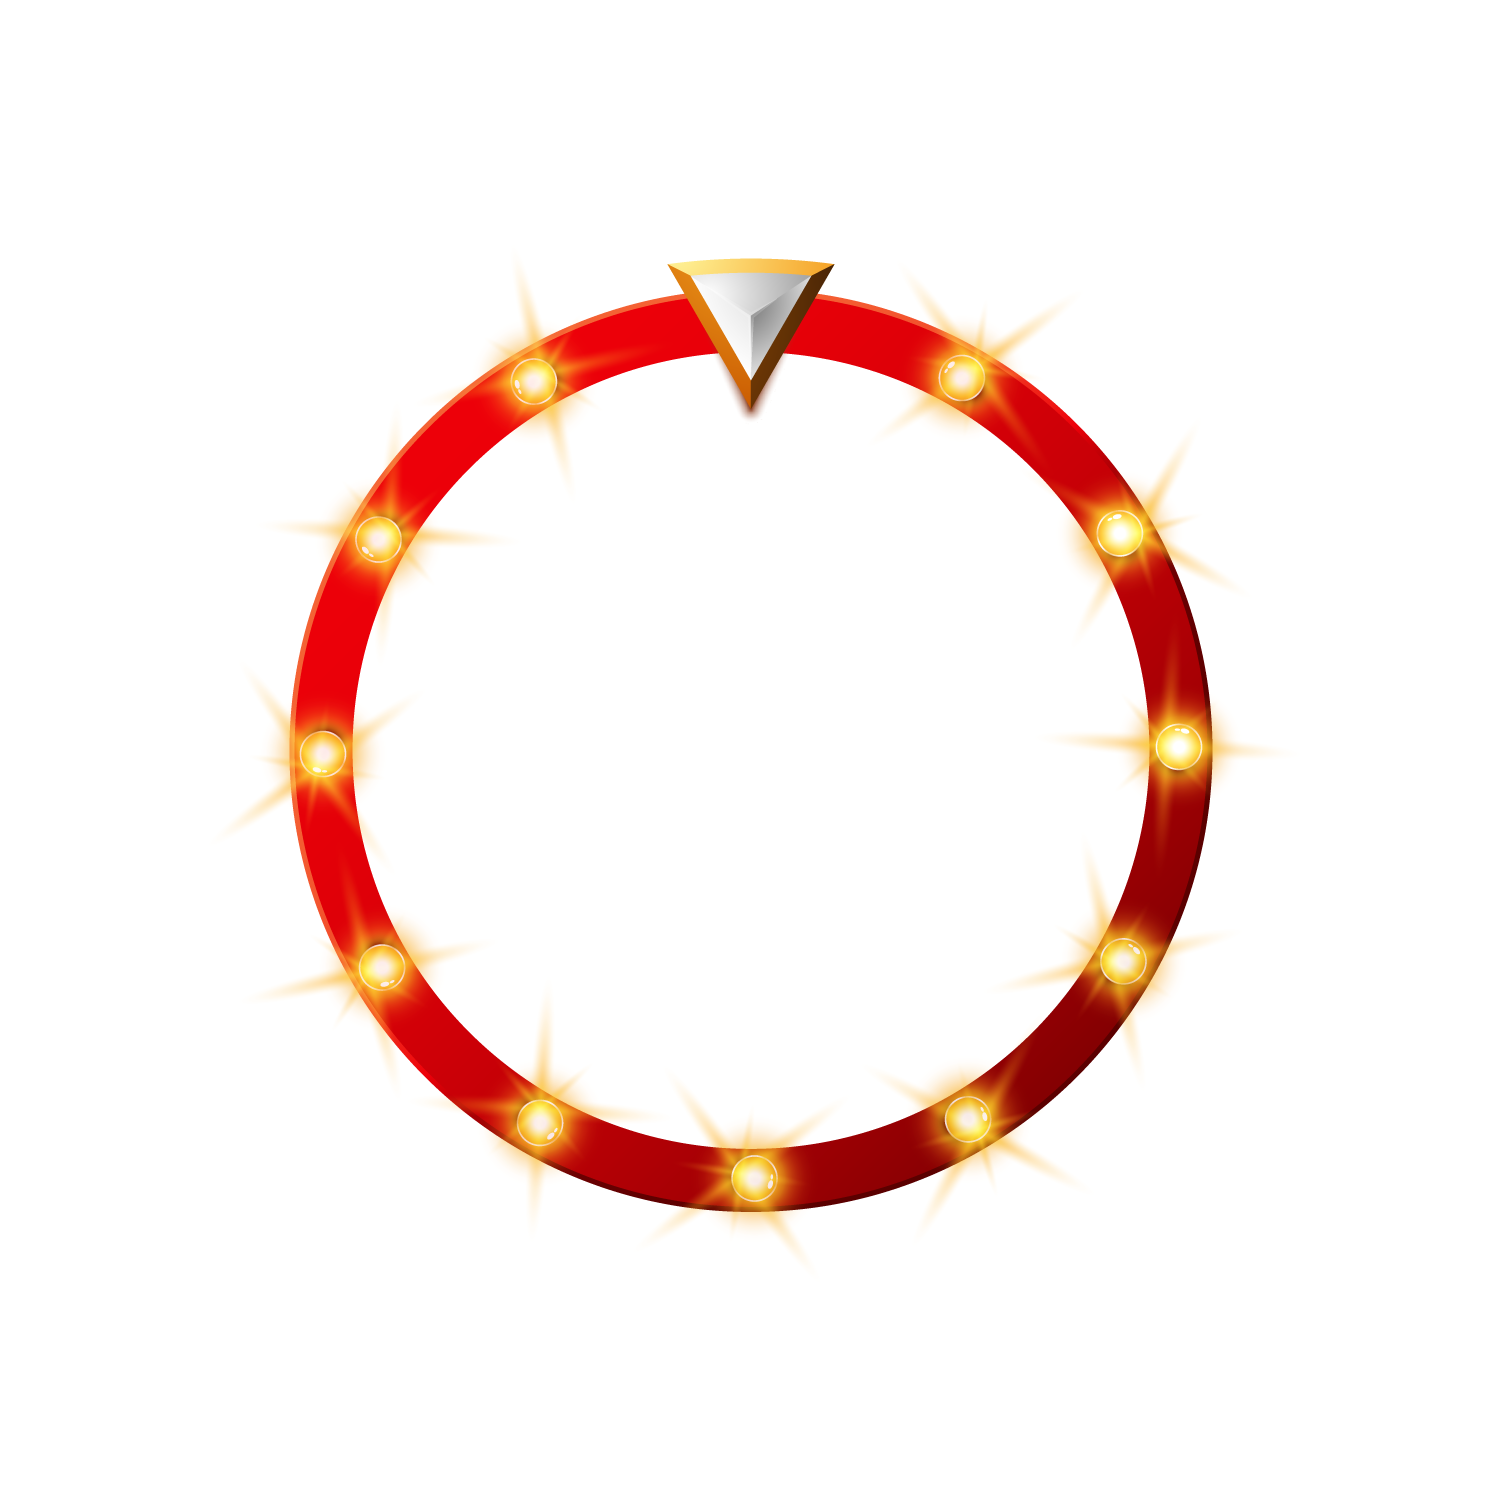
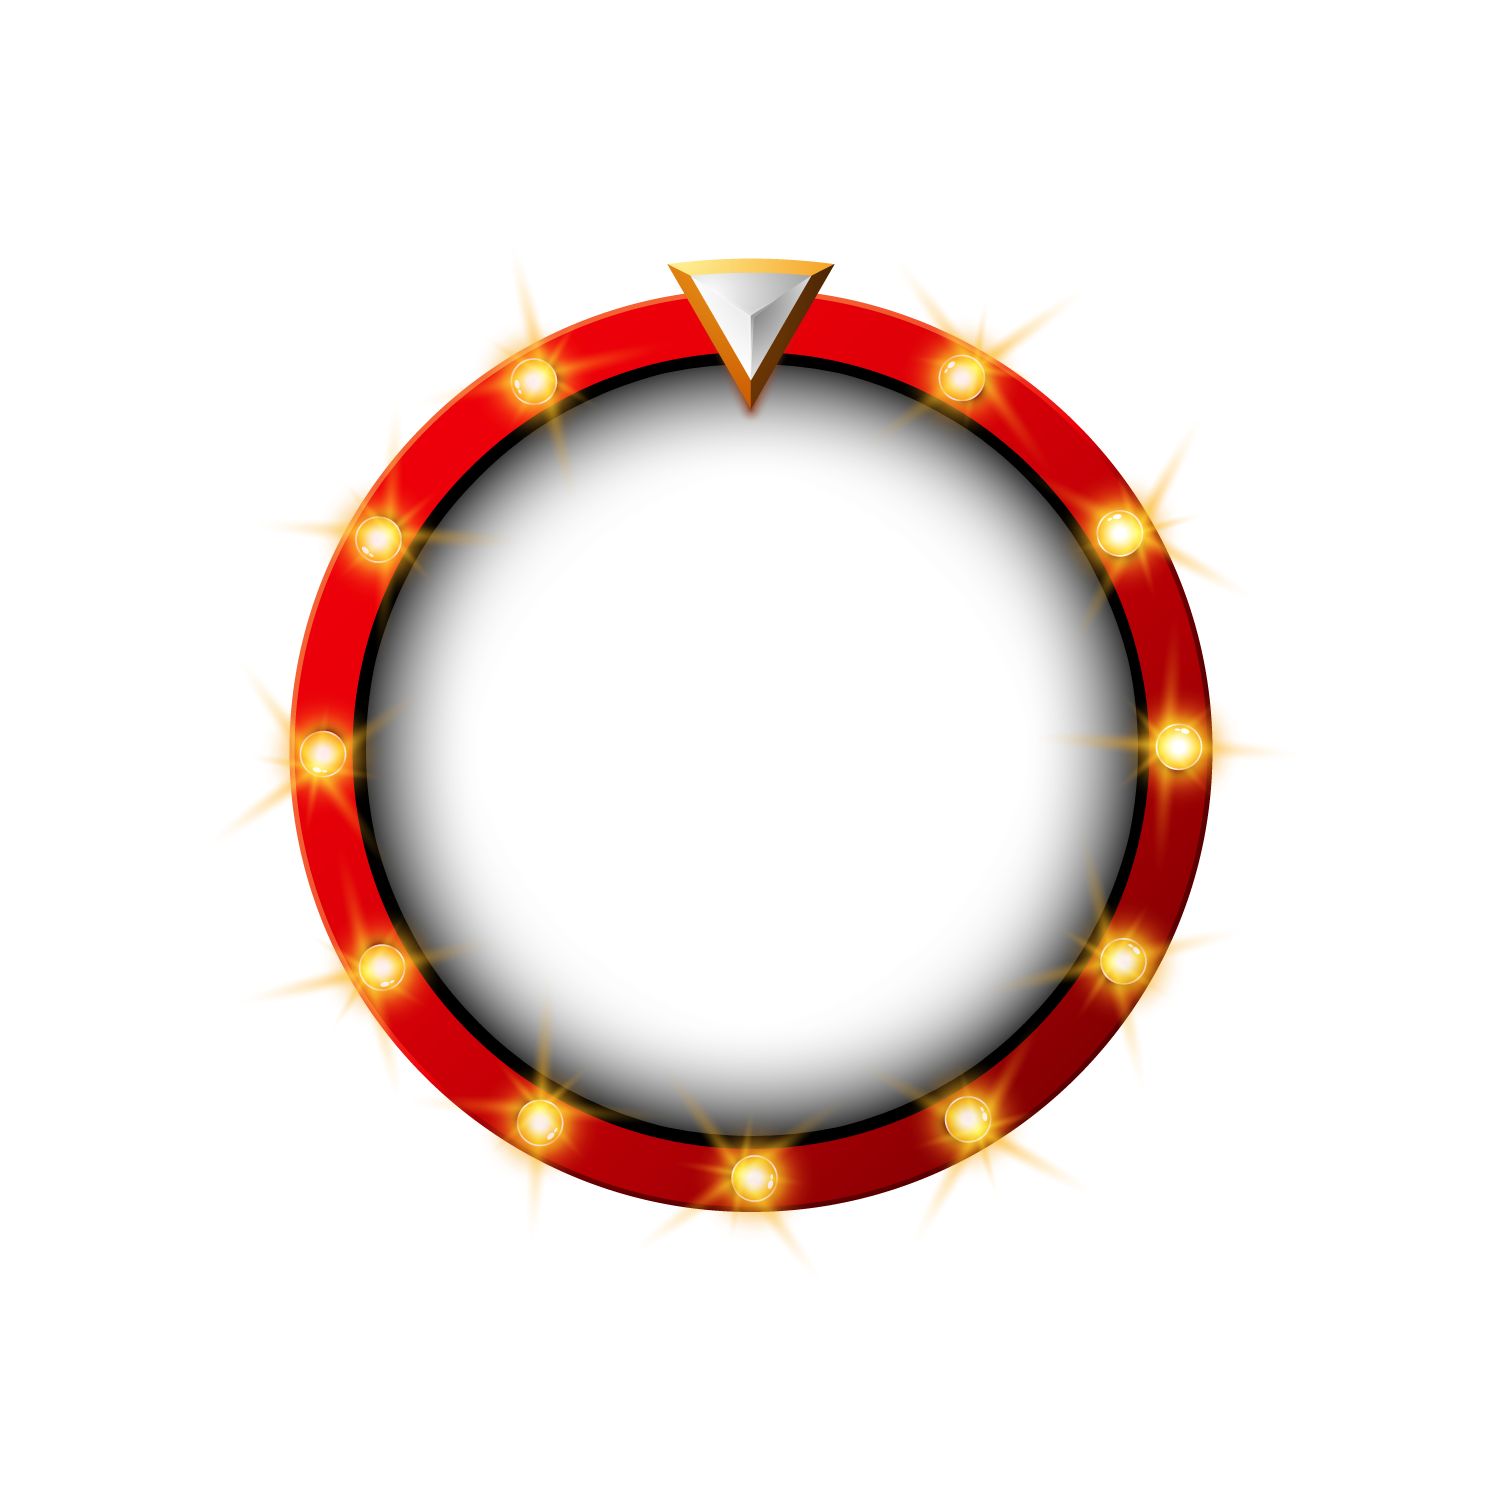
Black Fruday bugfix

Changed region(s): [[0.2147, 0.2147, 0.7667, 0.7667]]

diff --git a/Client/src/components/black-friday/index.js b/Client/src/components/black-friday/index.js
@@ -1,11 +1,10 @@
 import React, {useState, useEffect, useRef} from "react";
-import withI18next from "../withI18next";
-import Layout from "../layout";
 import Text from '../text';
 import ImageGQL from '../image-gql';
 import styled from 'styled-components';
 import Button from '../button';
 import ReactTurntable from "react-turntable";
+import "@fontsource/montserrat/800.css";
 
 import wheelAVS from '../../images/black-friday/bg_wheel.png';
 import wheelAVScircle from '../../images/black-friday/bf_vector.png';
@@ -20,9 +19,6 @@ import offMusicButtom from "../../images/black-friday/off_bf.png";
 import AudioCasino from "../../images/black-friday/operation_casino.mp3";
 import { withSoundCloudAudio } from 'react-soundplayer/addons';
 
-import redSector from "../../images/black-friday/red.png";
-import whiteSector from "../../images/black-friday/white.png";
-
 const Wheelstyle = styled.div`
 float: left;
 margin: 25px;
@@ -33,6 +29,7 @@ position: relative;
 
 .WheelAVS{
     position: absolute;
+    z-index: 1;
 }
 
 .wheelAVSram{
@@ -52,7 +49,7 @@ position: relative;
 
 .wheelAVScircle{
   position: absolute;
-  top: 225px;
+  top: 220px;
   left: 195px;
   z-index: 20;
 }
@@ -170,6 +167,7 @@ vertical-align: top;
     line-height: 100px;
     text-transform: uppercase;
     white-space: nowrap;
+    font-family: Montserrat;
   }
 
   .header___subtitle {
@@ -180,6 +178,7 @@ vertical-align: top;
     text-transform: uppercase;
     padding-bottom: 32px;
     white-space: nowrap;
+    font-family: Montserrat;
   }
 
   .header__subtitle{
@@ -200,6 +199,7 @@ vertical-align: top;
     padding: 0px 0 40px;
     text-align: center;
     font-family: Montserrat;
+    max-width: 656px;
   }
 
   .secondtext_bf{
@@ -230,7 +230,7 @@ vertical-align: top;
   padding-bottom: 16px;
   text-transform: uppercase;
   letter-spacing: 0.05em;
-  line-height: 100px;
+  line-height: ${(props) => (props.locale === "de" ? '64px' : '100px')};
 }
 
 .got {
@@ -302,9 +302,9 @@ vertical-align: top;
 
   .congratsBg {
     position: absolute;
-    top: -50%;
+    top: -80%;
     z-index: -1;
-    left: -30%;
+    left: -40%;
   }
 
 .header_img {
@@ -402,9 +402,12 @@ vertical-align: top;
     height: 433px;
   }
 
-  .header_subtitle {
-    max-width: 880px;
+  .block_content .header_subtitle {
     padding: 0px 40px 40px;
+  }
+
+  .header_img {
+    padding-bottom: 0;
   }
 
   .congratsBg {
@@ -544,17 +547,13 @@ const options = {
   width: 500,
   height: 550,
   primaryColor: "#9f0900",
-  secondaryColor: "#FFFFFF",
-  images: [ 
-    "https://forumupload.ru/uploads/001a/48/60/1337/661753.png", 
-    "https://forumupload.ru/uploads/001a/48/60/1337/64409.png" 
-  ],
+  secondaryColor: "#000000",
   fontStyle:{
-      color: "#000",
       size:"28px",
       fontVertical:true,
       fontWeight:"bold",
-      fontFamily:"Microsoft YaHei"
+      fontFamily:"Montserrat",
+      color: "#FFFFFF",
   },
   speed: 1000,
   duration: 5000,
@@ -649,9 +648,10 @@ export class BlackFriday extends React.PureComponent {
   render(){
     const programName = ProgramNames[this.state.couponName];
     const redeemName = RedeemNames[this.state.couponName];
+    const { locale } = this.props;
 
     return (
-        <BlackFridayStyle>
+        <BlackFridayStyle locale={locale}>
         <link href="https://fonts.googleapis.com/css2?family=Montserrat:wght@100..900&display=swap" rel="stylesheet"></link>
         <div className="header">
               <ImageGQL className="headerBackgroundImage" imageName="bg_bf_wheel.png" style={{position: "absolute"}}/>
@@ -668,7 +668,7 @@ export class BlackFriday extends React.PureComponent {
                       <div className="block_content on_complite">
                       <img className="congratsBg" src={congratsBg}/>
                       <Text fontFamily={'Montserrat'} as="h1" className="header_congrats">{this.props.t("Congratulations")}</Text>
-                      {this.state.couponName && <Text fontFamily={'Montserrat'} className="got">{this.props.t("Youve got a")}<span>{this.state?.winPrize}</span>{this.props.t("discount on")}<br /><span className="programName">{this.props.t(programName)}{this.props.t("discount before")}</span></Text>}
+                      {this.state.couponName && <Text fontFamily={'Montserrat'} className="got">{this.props.t("Youve got a")}<span>{this.state?.winPrize === "Surprise" ? "50%" : this.state?.winPrize}</span>{this.props.t("discount on")}<br /><span className="programName">{this.props.t(programName)}{this.props.t("discount before")}</span></Text>}
                       {this.state.couponName && <Text fontFamily={'Montserrat'} className="coupon"><span>{this.state.couponName}</span></Text>}
                       <div className="button-coupon"><Button className="Button_BF_Wheel" id="black_friday_redeem" href={this.props.t(redeemName)}> {this.props.t("Redeem your coupon")} </Button></div>
                     </div>
@@ -694,19 +694,16 @@ export class BlackFriday extends React.PureComponent {
                     <div className="wheelAVSram"></div>
                     <div className="WheelAVS" style={styles}>
                         <ReactTurntable {...options}
-
                         onComplete={this.setPrize}
                         hiddenButton
                         getTurntable={turntable => (this.turntable = turntable)}                     
                       />
-
                     </div>
-                    
-                    </Wheelstyle>
+                  </Wheelstyle>
                   </div>
-                </div>
               </div>
-              </BlackFridayStyle>
+          </div>
+        </BlackFridayStyle>
     );
   }
 };

diff --git a/Client/src/components/layout.js b/Client/src/components/layout.js
@@ -559,7 +559,7 @@ class Layout extends React.PureComponent {
                 {!this.props.headerIsDisabled && <Header isTransparentHeader={this.props.isTransparentHeader} availableLocales={this.props.pageContext.availableLocales}
                                                          locale={this.props.pageContext.locale} t={this.props.t}/>}
                 <StyledLayout className={this.props.className}>
-                {this.state.showBlackFriday && !this.state.isMobile ? <main><BlackFriday i18n={i18next} t={this.props.t} onCloseBanner={this.onCloseBanner}/></main> : <main>{this.props.children}</main>}
+                {this.state.showBlackFriday && !this.state.isMobile ? <main><BlackFriday locale={this.props.pageContext.locale} t={this.props.t} onCloseBanner={this.onCloseBanner}/></main> : <main>{this.props.children}</main>}
                     
                 </StyledLayout>
                 <CookieMessage/>
